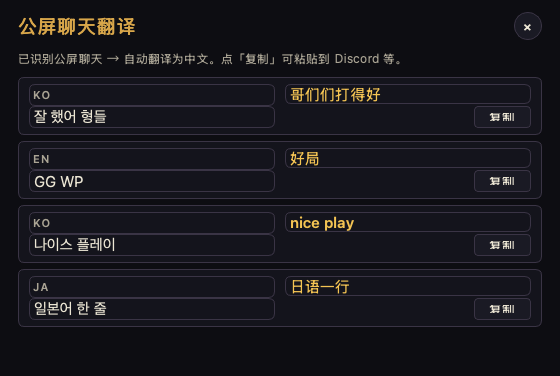
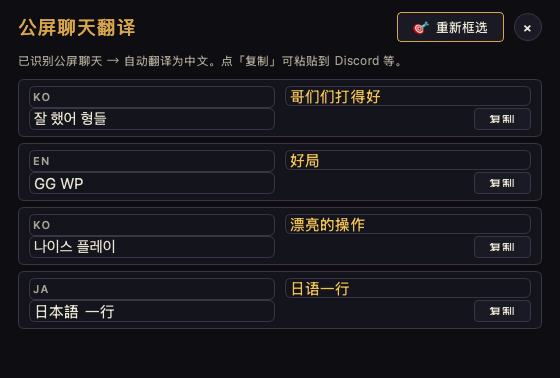
fix(chat-trans): recenter region to bottom-center; add 🎯 redraw button
Chat region heuristic was bottom-LEFT (0.00-0.45, 0.65-0.94) which is
where the chat scroll lives in some HotS overlays but NOT in the
standard CN client — there it's bottom-center, just above the chat
input box. Recenter to (0.25-0.78, 0.62-0.92).

Verified against the bundled BP screenshot: now picks up the two
real system messages ("Princexiao05被踢出了队伍", "你加入了[征召团队]")
and drops the BP-screen "查看所有英雄" button label that fell inside
the new region. Added a small list of CN-client UI strings to the
placeholder filter to handle that and similar artefacts.

ChatTranslationPopup grows a 🎯 重新框选 button (top-right next to
×). Click it → opens RegionSelectorDialog over the original
screenshot (same dialog the BP popup uses for per-name corrections)
→ user drags a tight rectangle → _RedrawTranslateWorker re-OCRs the
crop, runs the (region-less) chat-shape filter, re-translates, and
the popup refreshes in place. Disabled when there's no screenshot.

diff --git a/src/hots_helper/ui/translate_popup.py b/src/hots_helper/ui/translate_popup.py
@@ -14,7 +14,10 @@ the game without ever stealing focus / dropping fullscreen.
 
 from __future__ import annotations
 
+from pathlib import Path
+
 from PySide6.QtCore import (
+    QObject,
     Qt,
     QThread,
     Signal,
@@ -26,6 +29,7 @@ from PySide6.QtWidgets import (
     QFrame,
     QHBoxLayout,
     QLabel,
+    QMessageBox,
     QPlainTextEdit,
     QPushButton,
     QScrollArea,
@@ -98,11 +102,24 @@ class ChatTranslationPopup(QWidget):
         self.setStyleSheet(_gold_card_qss("chatTransRoot"))
         self.setMinimumWidth(560)
 
+        # Last screenshot we showed translations for. Stashed so the
+        # "redraw chat region" button can re-OCR the same image after
+        # the user drags a tighter rectangle. None means there's no
+        # frozen result on screen yet (or the worker errored before
+        # taking a screenshot).
+        self._screenshot_path: Path | None = None
+        # Worker for the redraw → re-translate flow. Same machinery as
+        # the main capture worker, but reused — we keep one outstanding
+        # at a time and disable the redraw button while it's running.
+        self._redraw_thread: QThread | None = None
+        self._redraw_worker = None
+        self._redraw_busy = False
+
         outer = QVBoxLayout(self)
         outer.setContentsMargins(18, 12, 18, 14)
         outer.setSpacing(10)
 
-        # Header row: title + close button.
+        # Header row: title + redraw button + close button.
         head = QHBoxLayout()
         self.title_label = QLabel()
         self.title_label.setStyleSheet(
@@ -111,6 +128,9 @@ class ChatTranslationPopup(QWidget):
         )
         head.addWidget(self.title_label)
         head.addStretch(1)
+        self.redraw_btn = QPushButton()
+        self.redraw_btn.clicked.connect(self._on_redraw_clicked)
+        head.addWidget(self.redraw_btn)
         self.close_btn = QPushButton("×")
         self.close_btn.setFixedSize(28, 28)
         self.close_btn.clicked.connect(self.hide)
@@ -146,10 +166,18 @@ class ChatTranslationPopup(QWidget):
     def _retranslate(self) -> None:
         self.title_label.setText(t("ui.chat_trans.title"))
         self.subtitle.setText(t("ui.chat_trans.subtitle"))
+        self.redraw_btn.setText(t("ui.chat_trans.redraw"))
+        self.redraw_btn.setToolTip(t("ui.chat_trans.redraw_tip"))
 
     # --- public API ---------------------------------------------------------
 
     def show_result(self, result: ChatTranslationResult) -> None:
+        # Stash the screenshot so the "redraw region" button has
+        # something to re-OCR. Even if the result has no chat lines,
+        # the user might still want to redraw and try a tighter box.
+        self._screenshot_path = result.screenshot_path
+        self.redraw_btn.setEnabled(self._screenshot_path is not None)
+
         # Clear old rows.
         while self._rows.count():
             item = self._rows.takeAt(0)
@@ -233,6 +261,74 @@ class ChatTranslationPopup(QWidget):
         cb = QApplication.clipboard()
         cb.setText(text)
 
+    # --- redraw region flow -------------------------------------------------
+
+    def _on_redraw_clicked(self) -> None:
+        if self._redraw_busy:
+            return
+        if not self._screenshot_path:
+            QMessageBox.information(
+                self,
+                t("ui.popup.region.no_screenshot_title"),
+                t("ui.popup.region.no_screenshot_body"),
+            )
+            return
+        # Open the same RegionSelectorDialog the BP popup uses for
+        # per-name corrections. We translate the picked rectangle
+        # (image-pixel coordinates) into a re-OCR + re-translate run.
+        from .region_select import RegionSelectorDialog
+        try:
+            dlg = RegionSelectorDialog(self._screenshot_path, parent=self)
+        except Exception as e:
+            QMessageBox.warning(
+                self,
+                t("ui.popup.region.cannot_open"),
+                str(e),
+            )
+            return
+        dlg.region_picked.connect(self._on_region_picked)
+        dlg.exec()
+
+    def _on_region_picked(self, x: int, y: int, w: int, h: int) -> None:
+        if not self._screenshot_path:
+            return
+        # Re-OCR + re-translate on a worker thread so the network call
+        # doesn't block the popup. Use a small custom worker
+        # (RedrawTranslateWorker) defined in this module — full screen
+        # capture is unnecessary, we already have the image and the box.
+        self._redraw_busy = True
+        self.redraw_btn.setEnabled(False)
+        self.subtitle.setText(t("ui.chat_trans.redrawing"))
+        thread = QThread(self)
+        worker = _RedrawTranslateWorker(
+            screenshot_path=self._screenshot_path,
+            x=x, y=y, w=w, h=h,
+        )
+        worker.moveToThread(thread)
+        thread.started.connect(worker.run)
+        worker.finished.connect(self._on_redraw_finished)
+        worker.finished.connect(thread.quit)
+        thread.finished.connect(self._cleanup_redraw)
+        self._redraw_thread = thread
+        self._redraw_worker = worker
+        thread.start()
+
+    def _cleanup_redraw(self) -> None:
+        if self._redraw_worker is not None:
+            self._redraw_worker.deleteLater()
+            self._redraw_worker = None
+        if self._redraw_thread is not None:
+            self._redraw_thread.deleteLater()
+            self._redraw_thread = None
+        self._redraw_busy = False
+        self.redraw_btn.setEnabled(self._screenshot_path is not None)
+        self._retranslate()  # restore subtitle
+
+    def _on_redraw_finished(self, result: ChatTranslationResult) -> None:
+        # Reuse show_result — it already clears the old rows and
+        # paints the new ones.
+        self.show_result(result)
+
     # --- frameless drag -----------------------------------------------------
 
     def mousePressEvent(self, ev) -> None:  # type: ignore[no-untyped-def]
@@ -249,6 +345,119 @@ class ChatTranslationPopup(QWidget):
 
     def mouseReleaseEvent(self, ev) -> None:  # type: ignore[no-untyped-def]
         self._drag_pos = None
+
+
+# === Redraw worker ==========================================================
+
+
+class _RedrawTranslateWorker(QObject):
+    """Re-OCR a user-cropped rectangle of an existing screenshot,
+    filter to chat-shaped text, translate to Chinese, return.
+
+    Smaller cousin of :class:`ChatTranslateWorker` — skips the screen-
+    capture stage and uses the manual crop as the input image. The
+    finished signal carries the same ``ChatTranslationResult`` shape
+    so the popup can reuse :meth:`show_result` unchanged.
+    """
+
+    progress = Signal(str)
+    finished = Signal(object)  # ChatTranslationResult
+
+    def __init__(
+        self,
+        screenshot_path: Path,
+        x: int, y: int, w: int, h: int,
+    ) -> None:
+        super().__init__()
+        self._path = screenshot_path
+        self._x = x
+        self._y = y
+        self._w = w
+        self._h = h
+
+    def run(self) -> None:
+        import tempfile
+        import traceback
+        from PIL import Image
+
+        from ..chat_ocr import filter_chat_blocks
+        from ..ocr import recognize
+        from ..translate import TranslateError, translate
+        from .workers import ChatTranslationResult
+
+        log_lines: list[str] = []
+        # 1. Crop
+        try:
+            with Image.open(self._path) as im:
+                crop = im.crop(
+                    (self._x, self._y, self._x + self._w, self._y + self._h)
+                )
+                pad = 8
+                padded = Image.new(
+                    "RGB",
+                    (crop.width + 2 * pad, crop.height + 2 * pad),
+                    (0, 0, 0),
+                )
+                padded.paste(crop, (pad, pad))
+                with tempfile.NamedTemporaryFile(suffix=".png", delete=False) as f:
+                    tmp_path = Path(f.name)
+                padded.save(tmp_path)
+        except Exception as e:
+            log_lines.append(f"[crop error] {type(e).__name__}: {e}")
+            log_lines.append(traceback.format_exc())
+            self.finished.emit(ChatTranslationResult(
+                screenshot_path=self._path,
+                error=f"裁剪失败：{e}",
+                log_lines=log_lines,
+            ))
+            return
+
+        # 2. OCR the crop.
+        try:
+            blocks = recognize(tmp_path)
+        except Exception as e:
+            log_lines.append(f"[OCR error] {type(e).__name__}: {e}")
+            self.finished.emit(ChatTranslationResult(
+                screenshot_path=self._path,
+                error=f"OCR 失败：{e}",
+                log_lines=log_lines,
+            ))
+            return
+        finally:
+            tmp_path.unlink(missing_ok=True)
+
+        chat = filter_chat_blocks(blocks)
+        if not chat:
+            self.finished.emit(ChatTranslationResult(
+                screenshot_path=self._path,
+                pairs=[],
+                log_lines=log_lines + ["[redraw] no chat-shaped text in crop"],
+            ))
+            return
+
+        # 3. Translate.
+        try:
+            results = translate(
+                [c.text for c in chat],
+                target="zh",
+                source="auto",
+            )
+        except TranslateError as e:
+            self.finished.emit(ChatTranslationResult(
+                screenshot_path=self._path,
+                error=f"翻译失败：{e}",
+                log_lines=log_lines,
+            ))
+            return
+
+        pairs = [(c.text, r.text) for c, r in zip(chat, results)]
+        sources = [r.detected_source for r in results]
+        self.finished.emit(ChatTranslationResult(
+            screenshot_path=self._path,
+            pairs=pairs,
+            detected_sources=sources,
+            log_lines=log_lines + [f"[redraw] {len(pairs)} lines translated"],
+        ))
 
 
 # === Compose popup =========================================================

diff --git a/src/hots_helper/chat_ocr.py b/src/hots_helper/chat_ocr.py
@@ -31,10 +31,15 @@ from .ocr import OcrBlock
 
 
 # Normalised chat panel — x0/y0/x1/y1 fractions of the screen.
-# The bottom-left corner where the chat scroll lives.  Generous on the
-# right edge because the chat input wraps over the central HUD; tight
-# on the top to drop nameplate/voice-chat overlays.
-CHAT_REGION = (0.00, 0.65, 0.45, 0.94)
+#
+# Empirically the in-game chat scroll sits in the bottom-center of the
+# screen, just above the chat input box. On 1080p the message area
+# centers around (x≈0.5, y≈0.78) and is roughly 0.45 wide.  We use a
+# generous box because resolution / UI scale move things around;
+# heuristic text filters in :func:`_looks_like_chat` clean up the
+# false-positives (HUD timers, ping count, the chat *input* placeholder
+# "按下回车键或'/'键开始聊天" itself, etc.).
+CHAT_REGION = (0.25, 0.62, 0.78, 0.92)
 
 
 @dataclass
@@ -49,6 +54,30 @@ _CHANNEL_TAG_RE = re.compile(r"^\[[^\]]{1,12}\]$")
 # Pure-numeric or pure-symbolic tokens — HUD timers ("00:42"), merc
 # camp counters ("3"), minimap pings ("!"), etc.
 _NON_TEXT_RE = re.compile(r"^[\s\d:./\-+]+$")
+# Substrings that mark *chat-adjacent UI* — the input-box placeholder,
+# BP-screen buttons that fall inside our chat region, etc. Anything
+# containing one of these exact tokens is dropped. Keep this list
+# short and Chinese-canonical (CN client) — adding aggressive English
+# filters risks dropping real chat that quotes UI labels.
+_INPUT_PLACEHOLDERS = (
+    "按下回车键",
+    "按回车键",
+    "Press Enter",
+    "press enter",
+    "/键开始聊天",
+    "to chat",
+    # BP-screen artefacts that overlap our chat region.
+    "查看所有英雄",          # "View all heroes" button
+    "正在等待敌方禁用英雄",  # status banner during enemy ban
+    "正在等待队伍禁用英雄",  # status banner during ally ban
+    "正在选择禁用英雄",      # drafter status text
+    "正在选择英雄",
+    # Voice chat status, kicker / joiner system messages — these
+    # *are* legitimate game chat, but they're system-generated and
+    # not what the user wants translated. Kept narrow on purpose.
+    "团队语音可用",
+    "加入团队语音",
+)
 
 
 def _in_chat_region(block: OcrBlock) -> bool:
@@ -67,6 +96,9 @@ def _looks_like_chat(text: str) -> bool:
         return False
     if _NON_TEXT_RE.match(s):
         return False
+    for placeholder in _INPUT_PLACEHOLDERS:
+        if placeholder in s:
+            return False
     # Must contain at least one alphabetic / CJK character somewhere.
     for ch in s:
         if ch.isalpha():
@@ -77,6 +109,23 @@ def _looks_like_chat(text: str) -> bool:
 def extract_chat_lines(blocks: list[OcrBlock]) -> list[ChatLine]:
     """Pick out chat lines from a list of OCR blocks (sorted top→bottom)."""
     candidates = [b for b in blocks if _in_chat_region(b) and _looks_like_chat(b.text)]
+    candidates.sort(key=lambda b: ((b.bbox[1] + b.bbox[3]) / 2))
+    return [
+        ChatLine(text=b.text.strip(), bbox=b.bbox, confidence=b.confidence)
+        for b in candidates
+    ]
+
+
+def filter_chat_blocks(blocks: list[OcrBlock]) -> list[ChatLine]:
+    """Apply only the *content* heuristics (no region check) to a list of
+    blocks the user already cropped down to the chat area manually.
+
+    Used by the "redraw chat region" path in the translation popup —
+    once the user has dragged a tight box, every block in that box is
+    presumed to be inside the chat panel, so the region check would
+    be redundant (and on small crops, occasionally too strict).
+    """
+    candidates = [b for b in blocks if _looks_like_chat(b.text)]
     candidates.sort(key=lambda b: ((b.bbox[1] + b.bbox[3]) / 2))
     return [
         ChatLine(text=b.text.strip(), bbox=b.bbox, confidence=b.confidence)

diff --git a/src/hots_helper/i18n.py b/src/hots_helper/i18n.py
@@ -113,6 +113,15 @@ _translations: dict[str, dict[str, str]] = {
         "en": "No chat text detected — make sure the chat panel is open and try again.",
     },
     "ui.chat_trans.copy": {"zh": "复制", "en": "Copy"},
+    "ui.chat_trans.redraw": {"zh": "🎯 重新框选", "en": "🎯 Redraw region"},
+    "ui.chat_trans.redraw_tip": {
+        "zh": "在原始截图上手动框选聊天区域，重新识别+翻译。",
+        "en": "Manually drag a rectangle over the chat panel on the original screenshot to re-OCR and re-translate.",
+    },
+    "ui.chat_trans.redrawing": {
+        "zh": "正在按你框选的区域重新识别和翻译…",
+        "en": "Re-running OCR + translate on your selected region…",
+    },
 
     "ui.compose_trans.title": {
         "zh": "中文 → 翻译给队友",

diff --git a/README.md b/README.md
@@ -83,8 +83,11 @@ pools auto-switch when you change mode).
 
 ### In-game translation
 
-`Ctrl+Shift+T` snaps the screen, OCRs the chat panel, and translates
-each line to Chinese. Click 复制 to copy.
+`Ctrl+Shift+T` snaps the screen, OCRs the chat panel (bottom-center
+region by default), and translates each line to Chinese. Click 复制 to
+copy. If the heuristic missed something or grabbed a non-chat label,
+hit 🎯 重新框选 and drag a tighter rectangle on the original
+screenshot — the popup re-OCRs and re-translates that exact region.
 
 ![Chat translation popup](docs/screenshots/06-chat-translation.png)
 